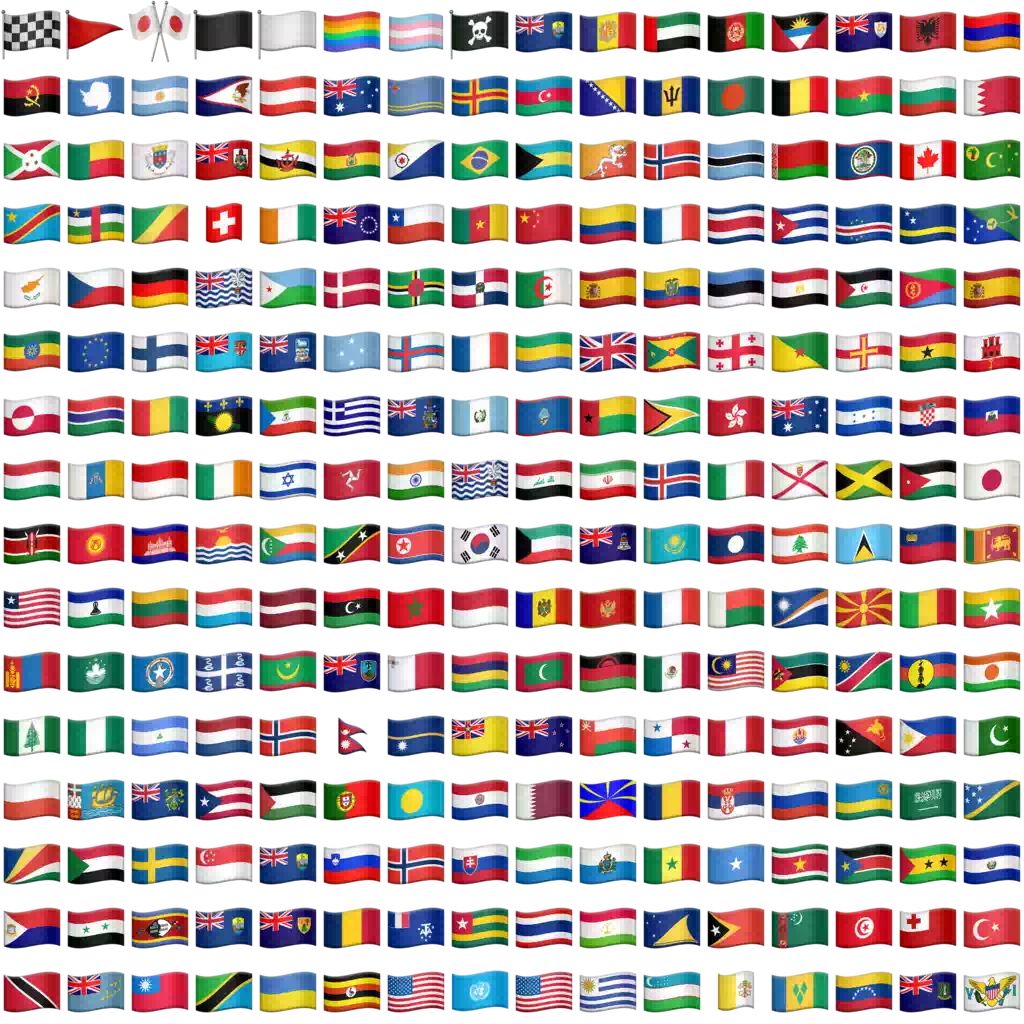
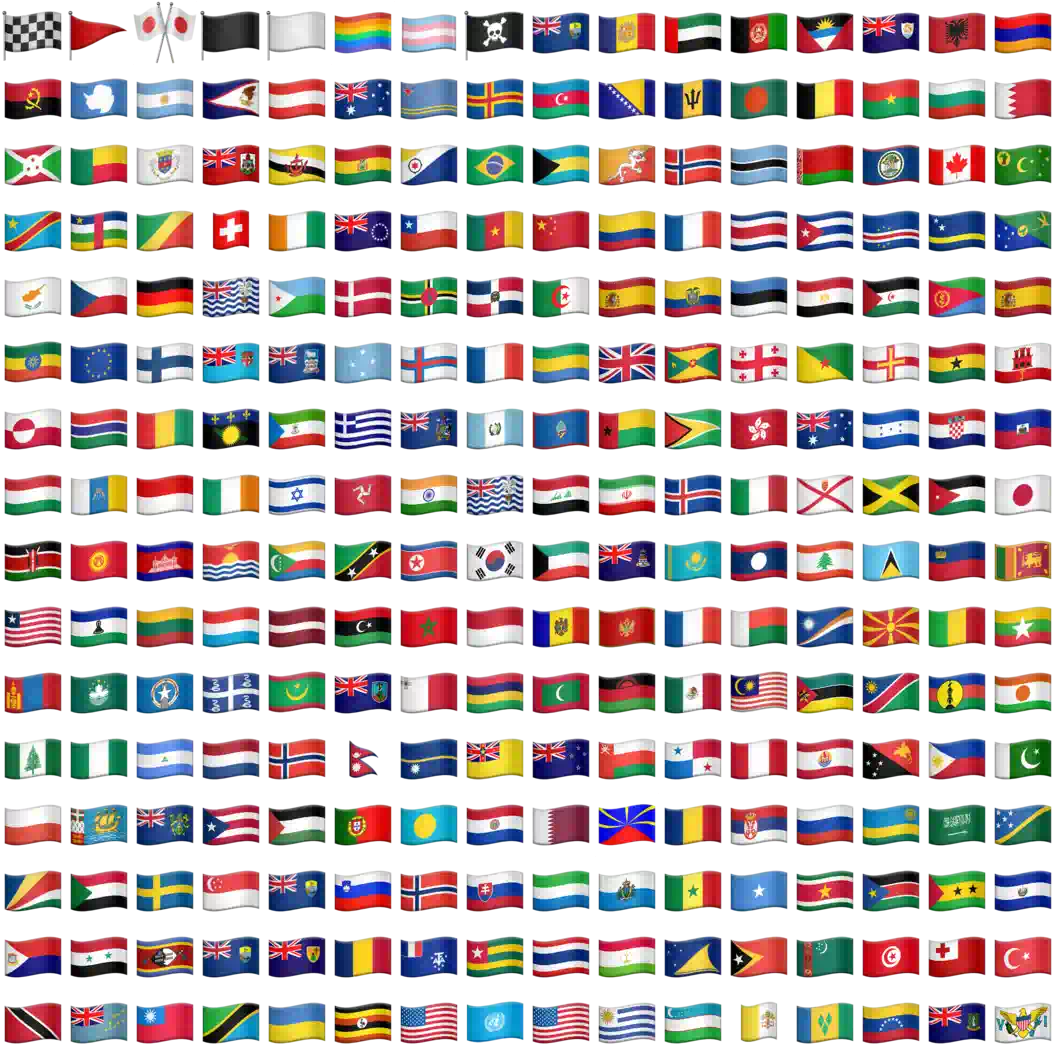
Update included emoji to 13.1

Changed region(s): [[0.0, 0.0, 1.0, 1.0], [0.25, 0.2188, 0.2812, 0.25]]

diff --git a/app/src/main/java/org/thoughtcrime/securesms/components/settings/app/internal/InternalSettingsFragment.kt b/app/src/main/java/org/thoughtcrime/securesms/components/settings/app/internal/InternalSettingsFragment.kt
@@ -221,7 +221,7 @@ class InternalSettingsFragment : DSLSettingsFragment(R.string.preferences__inter
         summary = DSLSettingsText.from(emojiSummary),
         isChecked = state.useBuiltInEmojiSet,
         onClick = {
-          viewModel.setDisableAutoMigrationNotification(!state.useBuiltInEmojiSet)
+          viewModel.setUseBuiltInEmoji(!state.useBuiltInEmojiSet)
         }
       )
 
